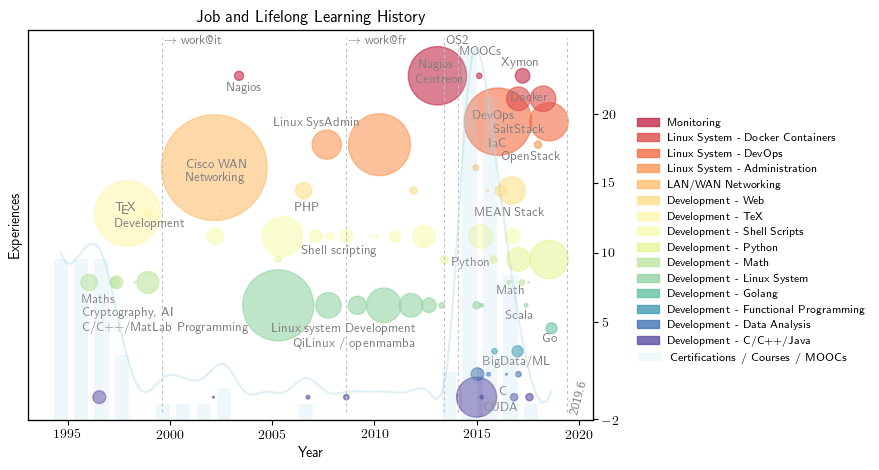
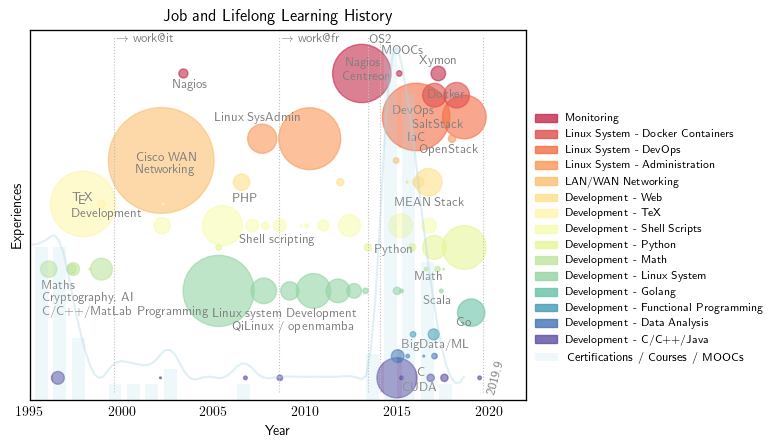
plot: remove all vertical ticks

diff --git a/scripts/plot-experiences.py b/scripts/plot-experiences.py
@@ -57,7 +57,6 @@ def parser(source):
         with open(source, "r") as data:
             history = my_experiences(row_iter(data))
             expr_types = sorted(set([expr[2] for expr in history]))
-
             index = lambda e: expr_types.index(e)
             color = lambda e: getcolor(index(e), len(expr_types))
             expr_map = map(lambda e:
@@ -102,9 +101,8 @@ def make_jobs_plot(experiences, area_adj=0.74):
     ax.set_ylim([-1, len(expr_types) + 1])
 
     # Add grid - fixme: yticks[] if set must to be manually adjusted
-    yticks = []
-    ax.set_yticks(yticks)
-    ax.set_yticklabels([''])
+    ax.set_yticks([])
+    ax.tick_params(axis=u'both', which=u'both', length=0)
     ax.grid(False)
 
     # Add vertical dotted lines at the major steps of my working life
@@ -218,7 +216,7 @@ def make_jobs_plot(experiences, area_adj=0.74):
     fysmooth = scipy.interpolate.interp1d(years, courses, kind="quadratic")
     ysmooth = [fysmooth(ti) for ti in xnew]
     ax3 = ax2.twinx()
-    ax3.set_yticks([-2, 5, 10, 15, 20], False)
+    ax3.set_yticks([])
     ax3.plot(xnew, ysmooth, color=bar_color, alpha=0.4)
 
     return fig, lgd
